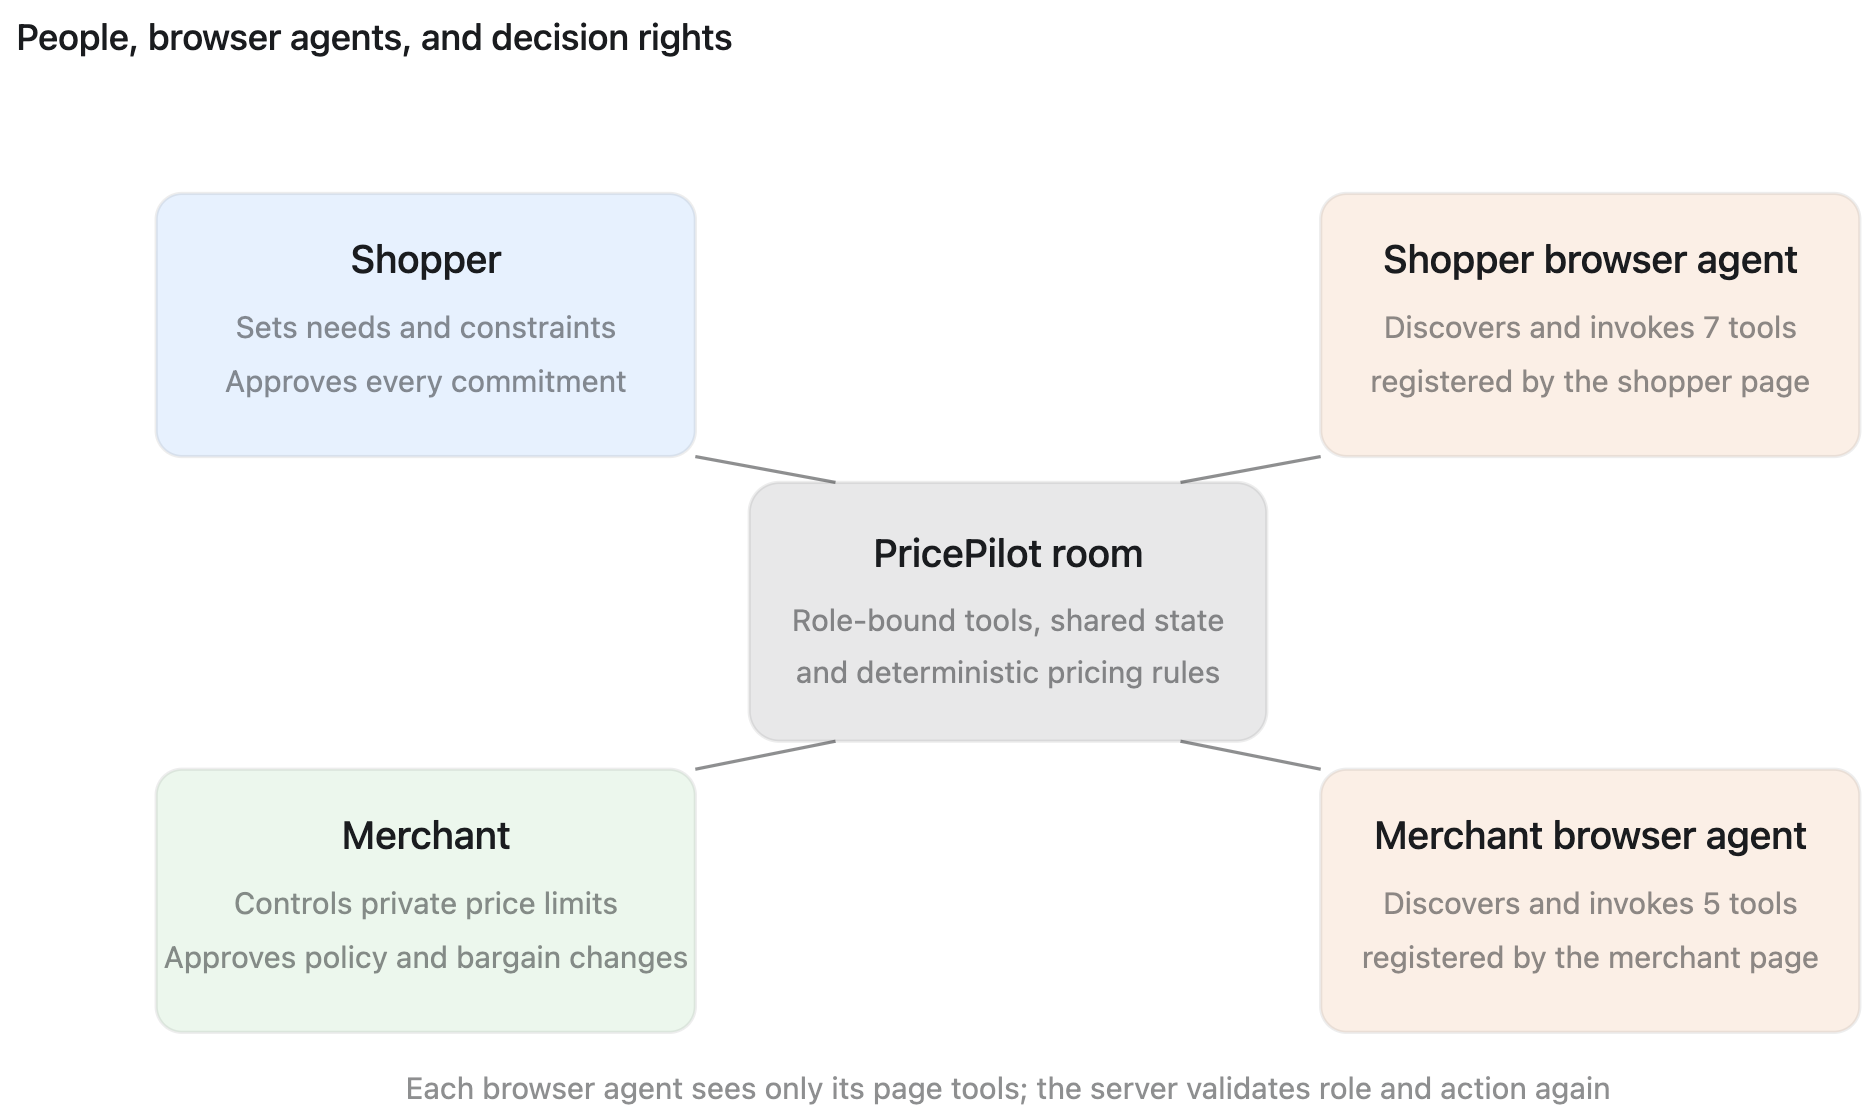
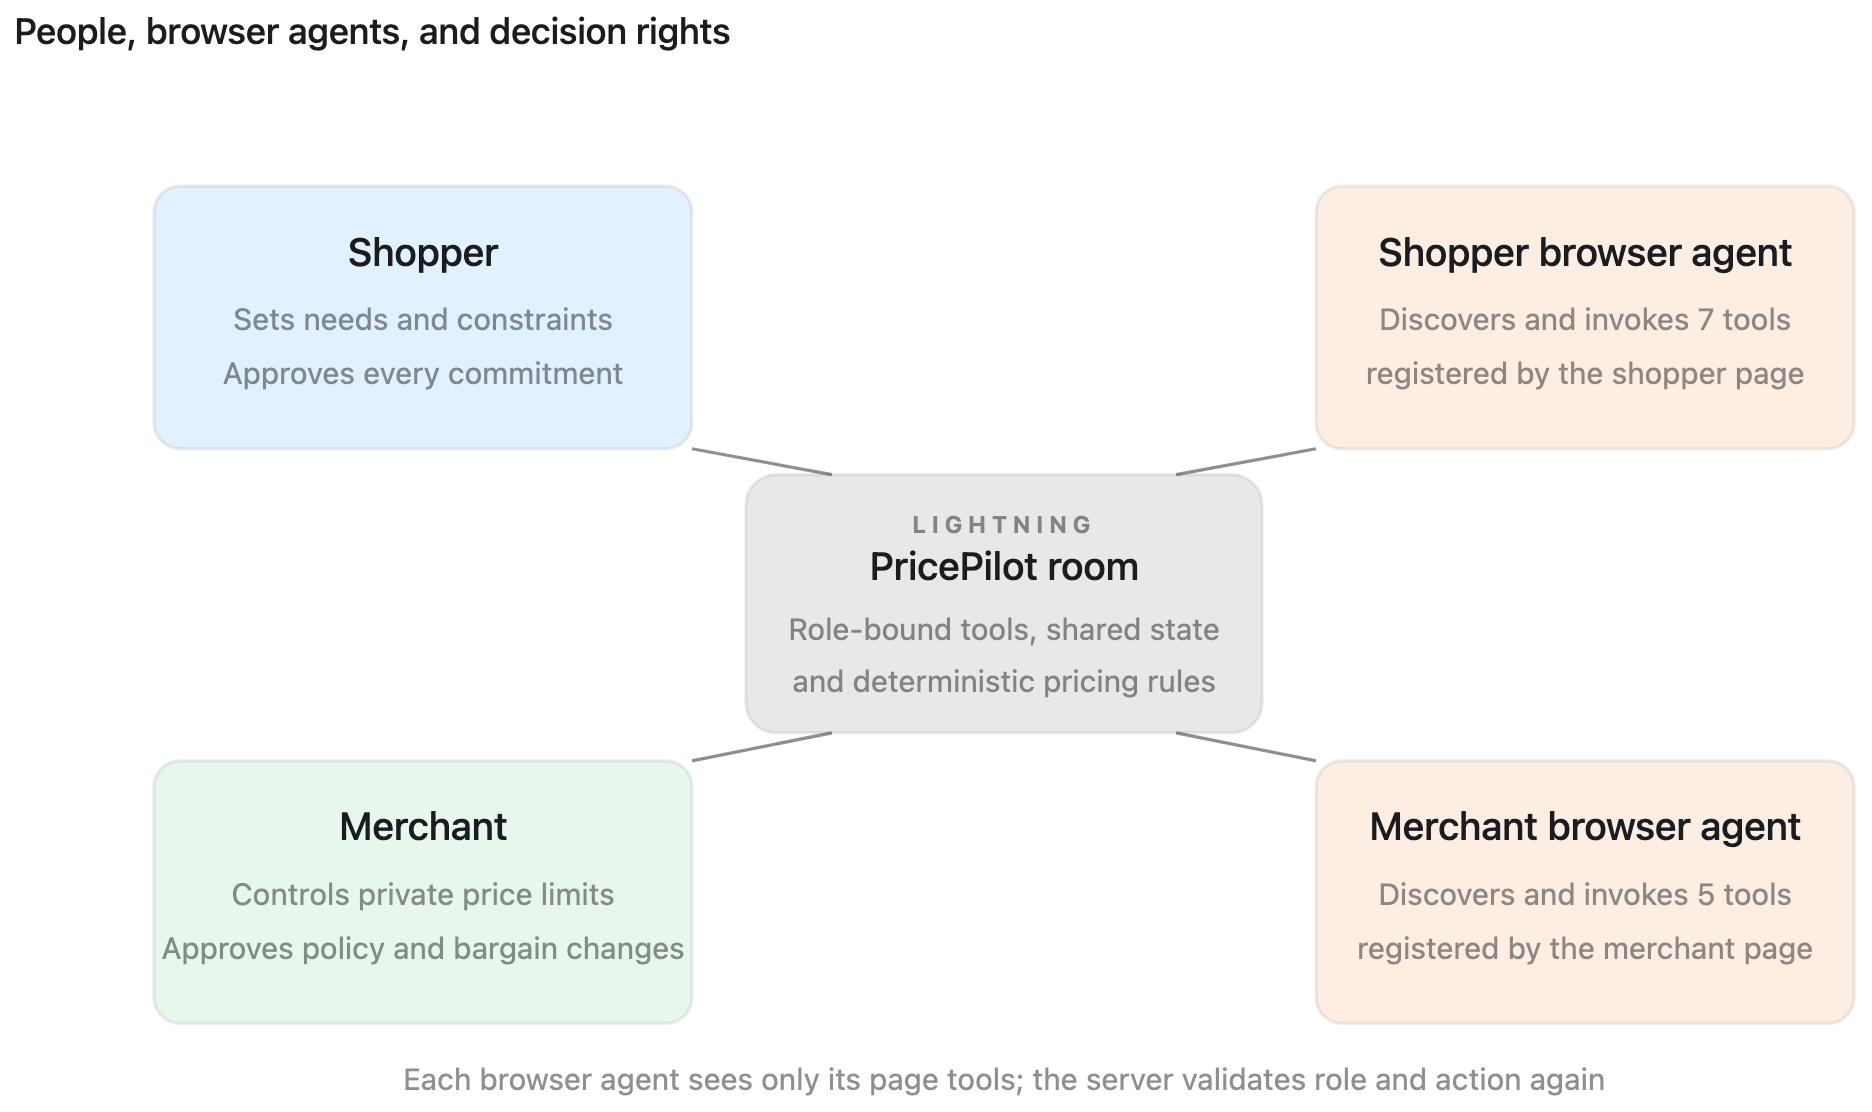
doc: update docs, diagrams, applogo, transcript

diff --git a/docs/agentic-pricing-diagrams.html b/docs/agentic-pricing-diagrams.html
@@ -1043,6 +1043,13 @@ html&gt;body{padding:0}&lt;/style&gt;
       font-size: 14px;
     }
 
+    #agentic-pricing-explainer .ap-svg .ap-eyebrow {
+      fill: var(--muted-foreground);
+      font-size: 11px;
+      font-weight: 700;
+      letter-spacing: 0.22em;
+    }
+
     #agentic-pricing-explainer .ap-svg .ap-code {
       fill: var(--foreground);
       font-family: var(--font-mono);
@@ -1172,7 +1179,7 @@ html&gt;body{padding:0}&lt;/style&gt;
 
   &lt;div class=&quot;ap-head&quot;&gt;
     &lt;div&gt;
-      &lt;h2&gt;PricePilot: two-sided agentic pricing&lt;/h2&gt;
+      &lt;h2&gt;LightningPricePilot: two-sided agentic pricing&lt;/h2&gt;
       &lt;p class=&quot;text-muted&quot;&gt;Role-specific WebMCP tools connect shopper and merchant browser agents to one live demo room&lt;/p&gt;
     &lt;/div&gt;
     &lt;span class=&quot;viz-badge&quot;&gt;7 shopper tools • 5 merchant tools&lt;/span&gt;
@@ -1190,7 +1197,7 @@ html&gt;body{padding:0}&lt;/style&gt;
   &lt;section class=&quot;ap-panel&quot; data-ap-panel=&quot;usecase&quot; aria-labelledby=&quot;ap-usecase-title&quot;&gt;
     &lt;h3 id=&quot;ap-usecase-title&quot;&gt;Browser-agent shopping journey&lt;/h3&gt;
     &lt;svg class=&quot;ap-svg&quot; viewBox=&quot;0 0 920 400&quot; role=&quot;img&quot; aria-labelledby=&quot;ap-usecase-svg-title ap-usecase-svg-desc&quot;&gt;
-      &lt;title id=&quot;ap-usecase-svg-title&quot;&gt;PricePilot shopper browser-agent journey&lt;/title&gt;
+      &lt;title id=&quot;ap-usecase-svg-title&quot;&gt;LightningPricePilot shopper browser-agent journey&lt;/title&gt;
       &lt;desc id=&quot;ap-usecase-svg-desc&quot;&gt;The shopper page registers seven role-scoped WebMCP tools. A browser agent discovers and invokes them to search, compare, negotiate, subscribe, join a group, read notifications, or prepare a human-approved mock checkout.&lt;/desc&gt;
       &lt;defs&gt;
         &lt;marker id=&quot;ap-arrow-flow&quot; viewBox=&quot;0 0 10 10&quot; refX=&quot;8&quot; refY=&quot;5&quot; markerWidth=&quot;7&quot; markerHeight=&quot;7&quot; orient=&quot;auto-start-reverse&quot;&gt;
@@ -1234,7 +1241,7 @@ html&gt;body{padding:0}&lt;/style&gt;
       &lt;text class=&quot;ap-small&quot; x=&quot;590&quot; y=&quot;356&quot; text-anchor=&quot;middle&quot;&gt;Visible approval gates stay with the shopper; calls are bound to the room and role&lt;/text&gt;
     &lt;/svg&gt;
 
-    &lt;div class=&quot;ap-mobile&quot; aria-label=&quot;PricePilot shopper browser-agent journey&quot;&gt;
+    &lt;div class=&quot;ap-mobile&quot; aria-label=&quot;LightningPricePilot shopper browser-agent journey&quot;&gt;
       &lt;div class=&quot;ap-mobile-stack&quot;&gt;
         &lt;div class=&quot;ap-mobile-node&quot;&gt;&lt;strong&gt;1. Shopper asks a browser agent&lt;/strong&gt;&lt;span class=&quot;text-muted&quot;&gt;The prompt carries the product need, budget and condition&lt;/span&gt;&lt;/div&gt;
         &lt;div class=&quot;ap-mobile-arrow&quot; aria-hidden=&quot;true&quot;&gt;↓&lt;/div&gt;
@@ -1318,7 +1325,7 @@ html&gt;body{padding:0}&lt;/style&gt;
   &lt;section class=&quot;ap-panel&quot; data-ap-panel=&quot;actors&quot; aria-labelledby=&quot;ap-actors-title&quot; hidden&gt;
     &lt;h3 id=&quot;ap-actors-title&quot;&gt;People, browser agents, and decision rights&lt;/h3&gt;
     &lt;svg class=&quot;ap-svg&quot; viewBox=&quot;0 0 920 500&quot; role=&quot;img&quot; aria-labelledby=&quot;ap-actors-svg-title ap-actors-svg-desc&quot;&gt;
-      &lt;title id=&quot;ap-actors-svg-title&quot;&gt;PricePilot people and browser agents&lt;/title&gt;
+      &lt;title id=&quot;ap-actors-svg-title&quot;&gt;LightningPricePilot people and browser agents&lt;/title&gt;
       &lt;desc id=&quot;ap-actors-svg-desc&quot;&gt;A shopper and merchant each work with a browser agent. The open shopper or merchant page registers only that role's WebMCP tools, while both roles share one validated room backend.&lt;/desc&gt;
 
       &lt;path class=&quot;ap-spoke&quot; d=&quot;M315 176 L380 188&quot;&gt;&lt;/path&gt;
@@ -1327,9 +1334,10 @@ html&gt;body{padding:0}&lt;/style&gt;
       &lt;path class=&quot;ap-spoke&quot; d=&quot;M605 321 L540 308&quot;&gt;&lt;/path&gt;
 
       &lt;rect class=&quot;ap-neutral&quot; x=&quot;340&quot; y=&quot;188&quot; width=&quot;240&quot; height=&quot;120&quot; rx=&quot;14&quot;&gt;&lt;/rect&gt;
-      &lt;text class=&quot;ap-title&quot; x=&quot;460&quot; y=&quot;227&quot; text-anchor=&quot;middle&quot;&gt;PricePilot room&lt;/text&gt;
-      &lt;text class=&quot;ap-small&quot; x=&quot;460&quot; y=&quot;257&quot; text-anchor=&quot;middle&quot;&gt;Role-bound tools, shared state&lt;/text&gt;
-      &lt;text class=&quot;ap-small&quot; x=&quot;460&quot; y=&quot;281&quot; text-anchor=&quot;middle&quot;&gt;and deterministic pricing rules&lt;/text&gt;
+      &lt;text class=&quot;ap-eyebrow&quot; x=&quot;460&quot; y=&quot;215&quot; text-anchor=&quot;middle&quot;&gt;LIGHTNING&lt;/text&gt;
+      &lt;text class=&quot;ap-title&quot; x=&quot;460&quot; y=&quot;237&quot; text-anchor=&quot;middle&quot;&gt;PricePilot room&lt;/text&gt;
+      &lt;text class=&quot;ap-small&quot; x=&quot;460&quot; y=&quot;265&quot; text-anchor=&quot;middle&quot;&gt;Role-bound tools, shared state&lt;/text&gt;
+      &lt;text class=&quot;ap-small&quot; x=&quot;460&quot; y=&quot;289&quot; text-anchor=&quot;middle&quot;&gt;and deterministic pricing rules&lt;/text&gt;
 
       &lt;rect class=&quot;ap-shopper&quot; x=&quot;65&quot; y=&quot;54&quot; width=&quot;250&quot; height=&quot;122&quot; rx=&quot;12&quot;&gt;&lt;/rect&gt;
       &lt;text class=&quot;ap-title&quot; x=&quot;190&quot; y=&quot;91&quot; text-anchor=&quot;middle&quot;&gt;Shopper&lt;/text&gt;
@@ -1354,7 +1362,7 @@ html&gt;body{padding:0}&lt;/style&gt;
       &lt;text class=&quot;ap-small&quot; x=&quot;460&quot; y=&quot;474&quot; text-anchor=&quot;middle&quot;&gt;Each browser agent sees only its page tools; the server validates role and action again&lt;/text&gt;
     &lt;/svg&gt;
 
-    &lt;div class=&quot;ap-mobile&quot; aria-label=&quot;PricePilot people and browser agents&quot;&gt;
+    &lt;div class=&quot;ap-mobile&quot; aria-label=&quot;LightningPricePilot people and browser agents&quot;&gt;
       &lt;div class=&quot;ap-mobile-stack&quot;&gt;
         &lt;div class=&quot;ap-mobile-node&quot;&gt;&lt;strong&gt;Shopper&lt;/strong&gt;&lt;span class=&quot;text-muted&quot;&gt;Sets needs and approves every commitment&lt;/span&gt;&lt;/div&gt;
         &lt;div class=&quot;ap-mobile-node ap-agent-node&quot;&gt;&lt;strong&gt;Shopper browser agent&lt;/strong&gt;&lt;span class=&quot;text-muted&quot;&gt;Uses the 7 WebMCP tools registered by the shopper page&lt;/span&gt;&lt;/div&gt;
@@ -1368,7 +1376,7 @@ html&gt;body{padding:0}&lt;/style&gt;
   &lt;section class=&quot;ap-panel&quot; data-ap-panel=&quot;architecture&quot; aria-labelledby=&quot;ap-architecture-title&quot; hidden&gt;
     &lt;h3 id=&quot;ap-architecture-title&quot;&gt;Runtime WebMCP architecture&lt;/h3&gt;
     &lt;svg class=&quot;ap-svg&quot; viewBox=&quot;0 0 920 760&quot; role=&quot;img&quot; aria-labelledby=&quot;ap-architecture-svg-title ap-architecture-svg-desc&quot;&gt;
-      &lt;title id=&quot;ap-architecture-svg-title&quot;&gt;PricePilot two-sided WebMCP architecture&lt;/title&gt;
+      &lt;title id=&quot;ap-architecture-svg-title&quot;&gt;LightningPricePilot two-sided WebMCP architecture&lt;/title&gt;
       &lt;desc id=&quot;ap-architecture-svg-desc&quot;&gt;The shopper and merchant routes independently register their role-specific WebMCP tools with document.modelContext. Browser agents discover and invoke those tools, which use a role-bound action API and shared room service.&lt;/desc&gt;
       &lt;defs&gt;
         &lt;marker id=&quot;ap-arrow-architecture&quot; viewBox=&quot;0 0 10 10&quot; refX=&quot;8&quot; refY=&quot;5&quot; markerWidth=&quot;7&quot; markerHeight=&quot;7&quot; orient=&quot;auto-start-reverse&quot;&gt;
@@ -1439,7 +1447,7 @@ html&gt;body{padding:0}&lt;/style&gt;
       &lt;text class=&quot;ap-small&quot; x=&quot;460&quot; y=&quot;742&quot; text-anchor=&quot;middle&quot;&gt;Browser agents operate through registered page tools—not brittle UI automation&lt;/text&gt;
     &lt;/svg&gt;
 
-    &lt;div class=&quot;ap-mobile&quot; aria-label=&quot;PricePilot two-sided WebMCP architecture&quot;&gt;
+    &lt;div class=&quot;ap-mobile&quot; aria-label=&quot;LightningPricePilot two-sided WebMCP architecture&quot;&gt;
       &lt;div class=&quot;ap-mobile-stack&quot;&gt;
         &lt;div class=&quot;ap-mobile-node&quot;&gt;&lt;strong&gt;Shopper page → shopper browser agent&lt;/strong&gt;&lt;span class=&quot;text-muted&quot;&gt;/room/{code}/shopper registers 7 discoverable, room-bound WebMCP tools&lt;/span&gt;&lt;div class=&quot;ap-tags&quot;&gt;&lt;span&gt;search_products&lt;/span&gt;&lt;span&gt;get_price_options&lt;/span&gt;&lt;span&gt;request_offer&lt;/span&gt;&lt;span&gt;join_group_buy&lt;/span&gt;&lt;span&gt;subscribe_bargains&lt;/span&gt;&lt;span&gt;get_notifications&lt;/span&gt;&lt;span&gt;prepare_mock_checkout&lt;/span&gt;&lt;/div&gt;&lt;/div&gt;
         &lt;div class=&quot;ap-mobile-arrow&quot; aria-hidden=&quot;true&quot;&gt;↘ parallel role surfaces ↙&lt;/div&gt;

diff --git a/src/components/landing-page.tsx b/src/components/landing-page.tsx
@@ -1,36 +1,13 @@
 "use client";
 
 import { FormEvent, useState } from "react";
-import Image from "next/image";
-import Link from "next/link";
 import { useRouter } from "next/navigation";
 import { FiArrowRight, FiBell, FiCheck, FiCopy, FiSearch, FiUsers } from "react-icons/fi";
 import { TbRobot, TbScale, TbSparkles } from "react-icons/tb";
+import { Brand } from "./brand";
 import { Button } from "./ui/button";
 import { Card } from "./ui/card";
 import { Input } from "./ui/input";
-
-function LightningPricePilotLogo({ className = "" }: { className?: string }) {
-  return (
-    <Link
-      href="/"
-      aria-label="LightningPricePilot home"
-      className={`group inline-flex items-center gap-3 text-[var(--navy)] ${className}`}
-    >
-      <span className="relative grid h-11 w-11 shrink-0 place-items-center overflow-hidden rounded-[0.9rem] shadow-[0_10px_24px_rgba(19,34,56,0.18)] transition-transform duration-200 group-hover:-rotate-3 group-hover:scale-105">
-        <Image src="/icon.svg" alt="" width={44} height={44} priority />
-      </span>
-      <span className="font-display flex flex-col items-start leading-none">
-        <span className="mb-1 text-[0.58rem] font-black uppercase tracking-[0.24em] text-[var(--coral)]">
-          Lightning
-        </span>
-        <span className="text-xl font-extrabold tracking-[-0.045em]">
-          Price<span className="text-[var(--coral)]">Pilot</span>
-        </span>
-      </span>
-    </Link>
-  );
-}
 
 export function LandingPage() {
   const router = useRouter();
@@ -65,7 +42,7 @@ export function LandingPage() {
   return (
     <main className="min-h-screen overflow-hidden">
       <nav className="mx-auto flex max-w-7xl items-center justify-between px-5 py-6 sm:px-8">
-        <LightningPricePilotLogo />
+        <Brand />
         <div className="hidden items-center gap-2 rounded-full border border-[var(--line)] bg-white/65 px-4 py-2 text-xs font-semibold text-[var(--muted)] sm:flex">
           <span className="live-dot h-2 w-2 rounded-full bg-[var(--teal)]" />
           WebMCP competition prototype
@@ -169,7 +146,7 @@ export function LandingPage() {
       </section>
 
       <footer className="border-t border-[var(--line)] px-5 py-8 text-center text-sm text-[var(--muted)]">
-        <LightningPricePilotLogo className="justify-center" />
+        <Brand className="justify-center" />
         <p className="mt-3">A human-in-the-loop WebMCP prototype. All prices and orders are fictional.</p>
       </footer>
     </main>

diff --git a/src/components/brand.tsx b/src/components/brand.tsx
@@ -1,19 +1,27 @@
+import Image from "next/image";
 import Link from "next/link";
-import { TbSparkles } from "react-icons/tb";
 import { cn } from "@/lib/utils";
 
 export function Brand({ compact = false, className }: { compact?: boolean; className?: string }) {
   return (
-    <Link href="/" className={cn("inline-flex items-center gap-2.5 text-[var(--navy)]", className)}>
-      <span className="grid h-10 w-10 place-items-center rounded-2xl bg-[var(--navy)] text-lg text-[var(--lime)] shadow-lg">
-        <TbSparkles aria-hidden="true" />
+    <Link
+      href="/"
+      aria-label="LightningPricePilot home"
+      className={cn("group inline-flex items-center gap-3 text-[var(--navy)]", className)}
+    >
+      <span className="relative grid h-11 w-11 shrink-0 place-items-center overflow-hidden rounded-[0.9rem] shadow-[0_10px_24px_rgba(19,34,56,0.18)] transition-transform duration-200 group-hover:-rotate-3 group-hover:scale-105">
+        <Image src="/icon.svg" alt="" width={44} height={44} priority />
       </span>
       {!compact && (
-        <span className="font-display text-xl font-extrabold tracking-[-0.04em]">
-          Price<span className="text-[var(--coral)]">Pilot</span>
+        <span className="font-display flex flex-col items-start leading-none">
+          <span className="mb-1 text-[0.58rem] font-black uppercase tracking-[0.24em] text-[var(--coral)]">
+            Lightning
+          </span>
+          <span className="text-xl font-extrabold tracking-[-0.045em]">
+            Price<span className="text-[var(--coral)]">Pilot</span>
+          </span>
         </span>
       )}
     </Link>
   );
 }
-

diff --git a/src/components/approval-provider.tsx b/src/components/approval-provider.tsx
@@ -54,7 +54,7 @@ export function ApprovalProvider({ children }: { children: ReactNode }) {
             <DialogDescription>{pending?.description}</DialogDescription>
           </DialogHeader>
           <div className="rounded-2xl border border-[var(--line)] bg-white p-4 text-xs leading-5 text-[var(--muted)]">
-            You stay in control. PricePilot will wait here until you approve or cancel this action.
+            You stay in control. LightningPricePilot will wait here until you approve or cancel this action.
           </div>
           <DialogFooter>
             <Button variant="outline" onClick={() => finish(false)}>Cancel</Button>

diff --git a/src/components/webmcp-provider.tsx b/src/components/webmcp-provider.tsx
@@ -56,7 +56,7 @@ export function useWebMCP(roomCode: string, role: Role) {
                   const result = (await response.json()) as ToolResult & { error?: string };
                   if (!response.ok) {
                     result.ok = false;
-                    result.summary = result.error ?? result.summary ?? "The PricePilot action failed.";
+                    result.summary = result.error ?? result.summary ?? "The LightningPricePilot action failed.";
                   }
                   window.dispatchEvent(
                     new CustomEvent("pricepilot:action", {

diff --git a/docs/demo-transcript.md b/docs/demo-transcript.md
@@ -1,0 +1,85 @@
+# LightningPricePilot — three-minute demo transcript
+
+Target delivery: warm, confident, and conversational at roughly 140 words per minute. Read only the **Voiceover** text. The **On screen** notes are recording cues. A narration-only version with pronunciation hints is available in [`demo-voiceover.txt`](demo-voiceover.txt).
+
+## 0:00–0:18 — The problem and product
+
+**On screen:** Start on the landing page. Briefly show the hero, then click **Create a demo room**.
+
+**Voiceover:**
+
+Online shopping is still mostly a one-way conversation. Shoppers search repeatedly, while merchants rarely see what people actually want. I built Lightning Price Pilot: a two-sided intent market where a shopper, a merchant, and their AI agents collaborate to discover a fair price.
+
+## 0:18–0:38 — A real WebMCP surface
+
+**On screen:** Open the WebMCP status pill and show the seven registered shopper tools. Copy the suggested shopper prompt.
+
+**Voiceover:**
+
+This is a WebMCP-native laptop marketplace. The page exposes structured tools directly to ChatGPT, with product IDs, integer-cent prices, and clear read-versus-write semantics. The model never scrapes the interface, and the app has no embedded model or API key.
+
+## 0:38–1:03 — Discovery, comparison, and negotiation
+
+**On screen:** Give ChatGPT the shopper prompt. Show the Aster Air 13 result, the price comparison, and the negotiation response.
+
+**Voiceover:**
+
+I ask for a lightweight refurbished laptop under nine hundred dollars, comparing every price path and negotiating toward eight hundred. It finds the Aster Air 13 and compares refurbished, group-buy, and live-bargain prices. Negotiation follows private merchant guardrails, returning an explainable offer or counteroffer without inventing a discount.
+
+## 1:03–1:29 — Human-approved group buying
+
+**On screen:** Let ChatGPT request `join_group_buy`. Pause on the approval dialog, approve it, then show the group count change from four to five and the unlocked price.
+
+**Voiceover:**
+
+Four shoppers have already joined the group. When the agent tries to add my commitment, Lightning Price Pilot pauses for my approval. I confirm, becoming the fifth buyer and unlocking eight percent off for everyone in the room. This is a visible, non-binding commitment—not an order—and the price changes deterministically to eight hundred eight dollars and sixty-eight cents.
+
+## 1:29–1:46 — Save intent for later
+
+**On screen:** Set the target to **$800**, click **Watch price**, and approve the subscription.
+
+**Voiceover:**
+
+The group price is close, but my goal is eight hundred dollars. I save that target as a bargain subscription. My individual budget stays private; the merchant receives only an aggregate demand signal.
+
+## 1:46–2:14 — Merchant agent responds to demand
+
+**On screen:** Switch to **Merchant**. Show the aggregate demand board and private guardrails. Give ChatGPT the merchant prompt. Set an excellent-condition bargain to **$790**, inventory to **3**, review, and approve publication.
+
+**Voiceover:**
+
+Now I switch to the merchant workspace. Its separate WebMCP surface can review group commitments, subscriber counts, average targets, and offer activity—but never an individual shopper’s target. Based on this demand, the merchant agent proposes three excellent-condition units at seven hundred ninety dollars. Publishing is another write action, so it also requires human confirmation. Once approved, the offer is validated against the merchant’s private floor and published.
+
+## 2:14–2:39 — Proactive, persistent matching
+
+**On screen:** Return to **Shopper**. Show the live notification and bargain inbox. Negotiate again to create the $790 offer.
+
+**Voiceover:**
+
+Back in the shopper workspace, the matching bargain arrives in real time. The notification is delivered through server-sent events and persisted, so it survives a refresh. The agent can now reuse the best available price and creates a ten-minute offer at seven hundred ninety dollars—below my saved target.
+
+## 2:39–2:55 — Human-approved mock checkout
+
+**On screen:** Click **Mock checkout**, pause on the confirmation, then approve and show the completed mock order.
+
+**Voiceover:**
+
+Checkout never happens silently. The tool waits while I review the exact item and price. After I approve, the app creates a fictional order and decrements inventory in one database transaction. No payment or personal data is collected.
+
+## 2:55–3:00 — Close
+
+**On screen:** Finish on the shopper and merchant views, or the landing-page brand.
+
+**Voiceover:**
+
+Lightning Price Pilot turns private intent into transparent group value, timely merchant action, and a safer agent-assisted purchase.
+
+## Prompts used during the recording
+
+**Shopper**
+
+> Find me a lightweight refurbished laptop under $900. Compare every available price path, negotiate toward $800 if sensible, and ask before joining a group or checking out.
+
+**Merchant**
+
+> Review aggregate demand in this room. Find the strongest opportunity, then propose a limited bargain that would notify interested shoppers. Ask before publishing it.

diff --git a/AGENTS.md b/AGENTS.md
@@ -2,7 +2,7 @@
 
 ## Start Here
 
-PricePilot uses Next.js 16, TypeScript, Drizzle, Vitest, and Playwright. Use Node 24 (`.nvmrc`) with `npm ci`. Before submitting, run `npm run lint`, `npm run typecheck`, and `npm test`. Consult later sections as needed.
+LightningPricePilot uses Next.js 16, TypeScript, Drizzle, Vitest, and Playwright. Use Node 24 (`.nvmrc`) with `npm ci`. Before submitting, run `npm run lint`, `npm run typecheck`, and `npm test`. Consult later sections as needed.
 
 ## Find the Relevant Code
 

diff --git a/docs/demo-guide.md b/docs/demo-guide.md
@@ -1,4 +1,4 @@
-# PricePilot competition demo guide
+# LightningPricePilot competition demo guide
 
 ## Before recording or presenting
 
